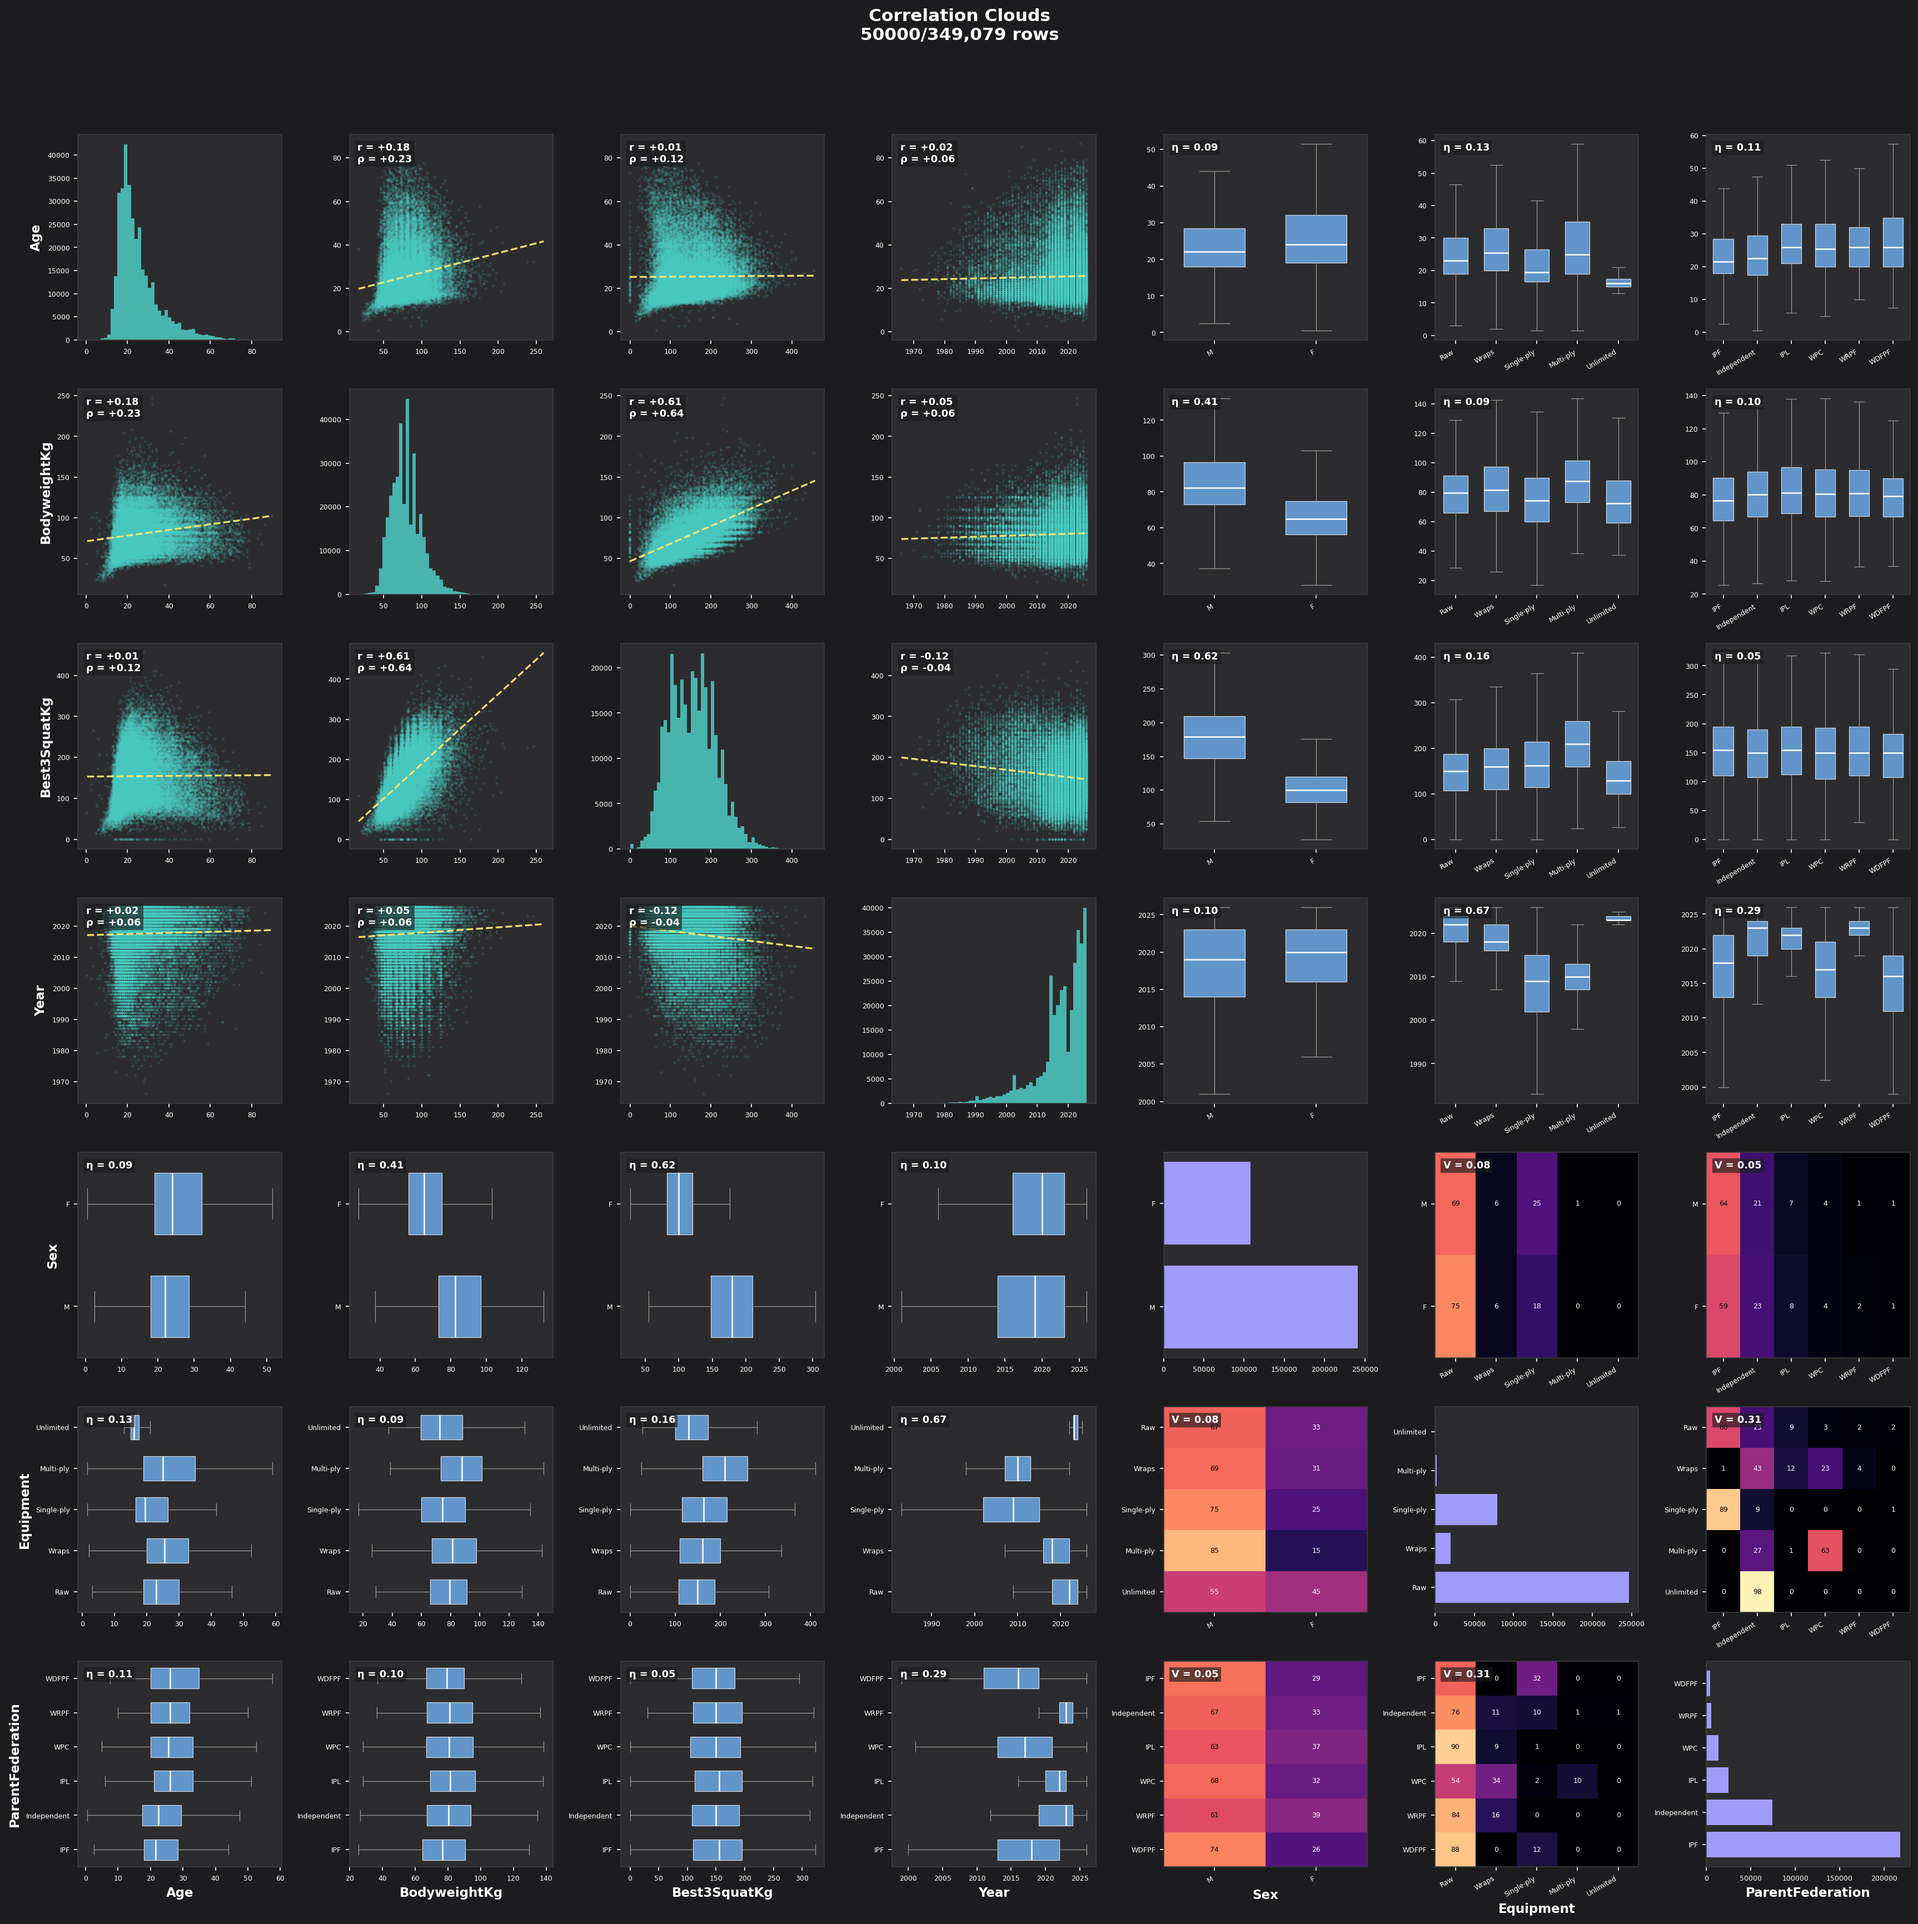
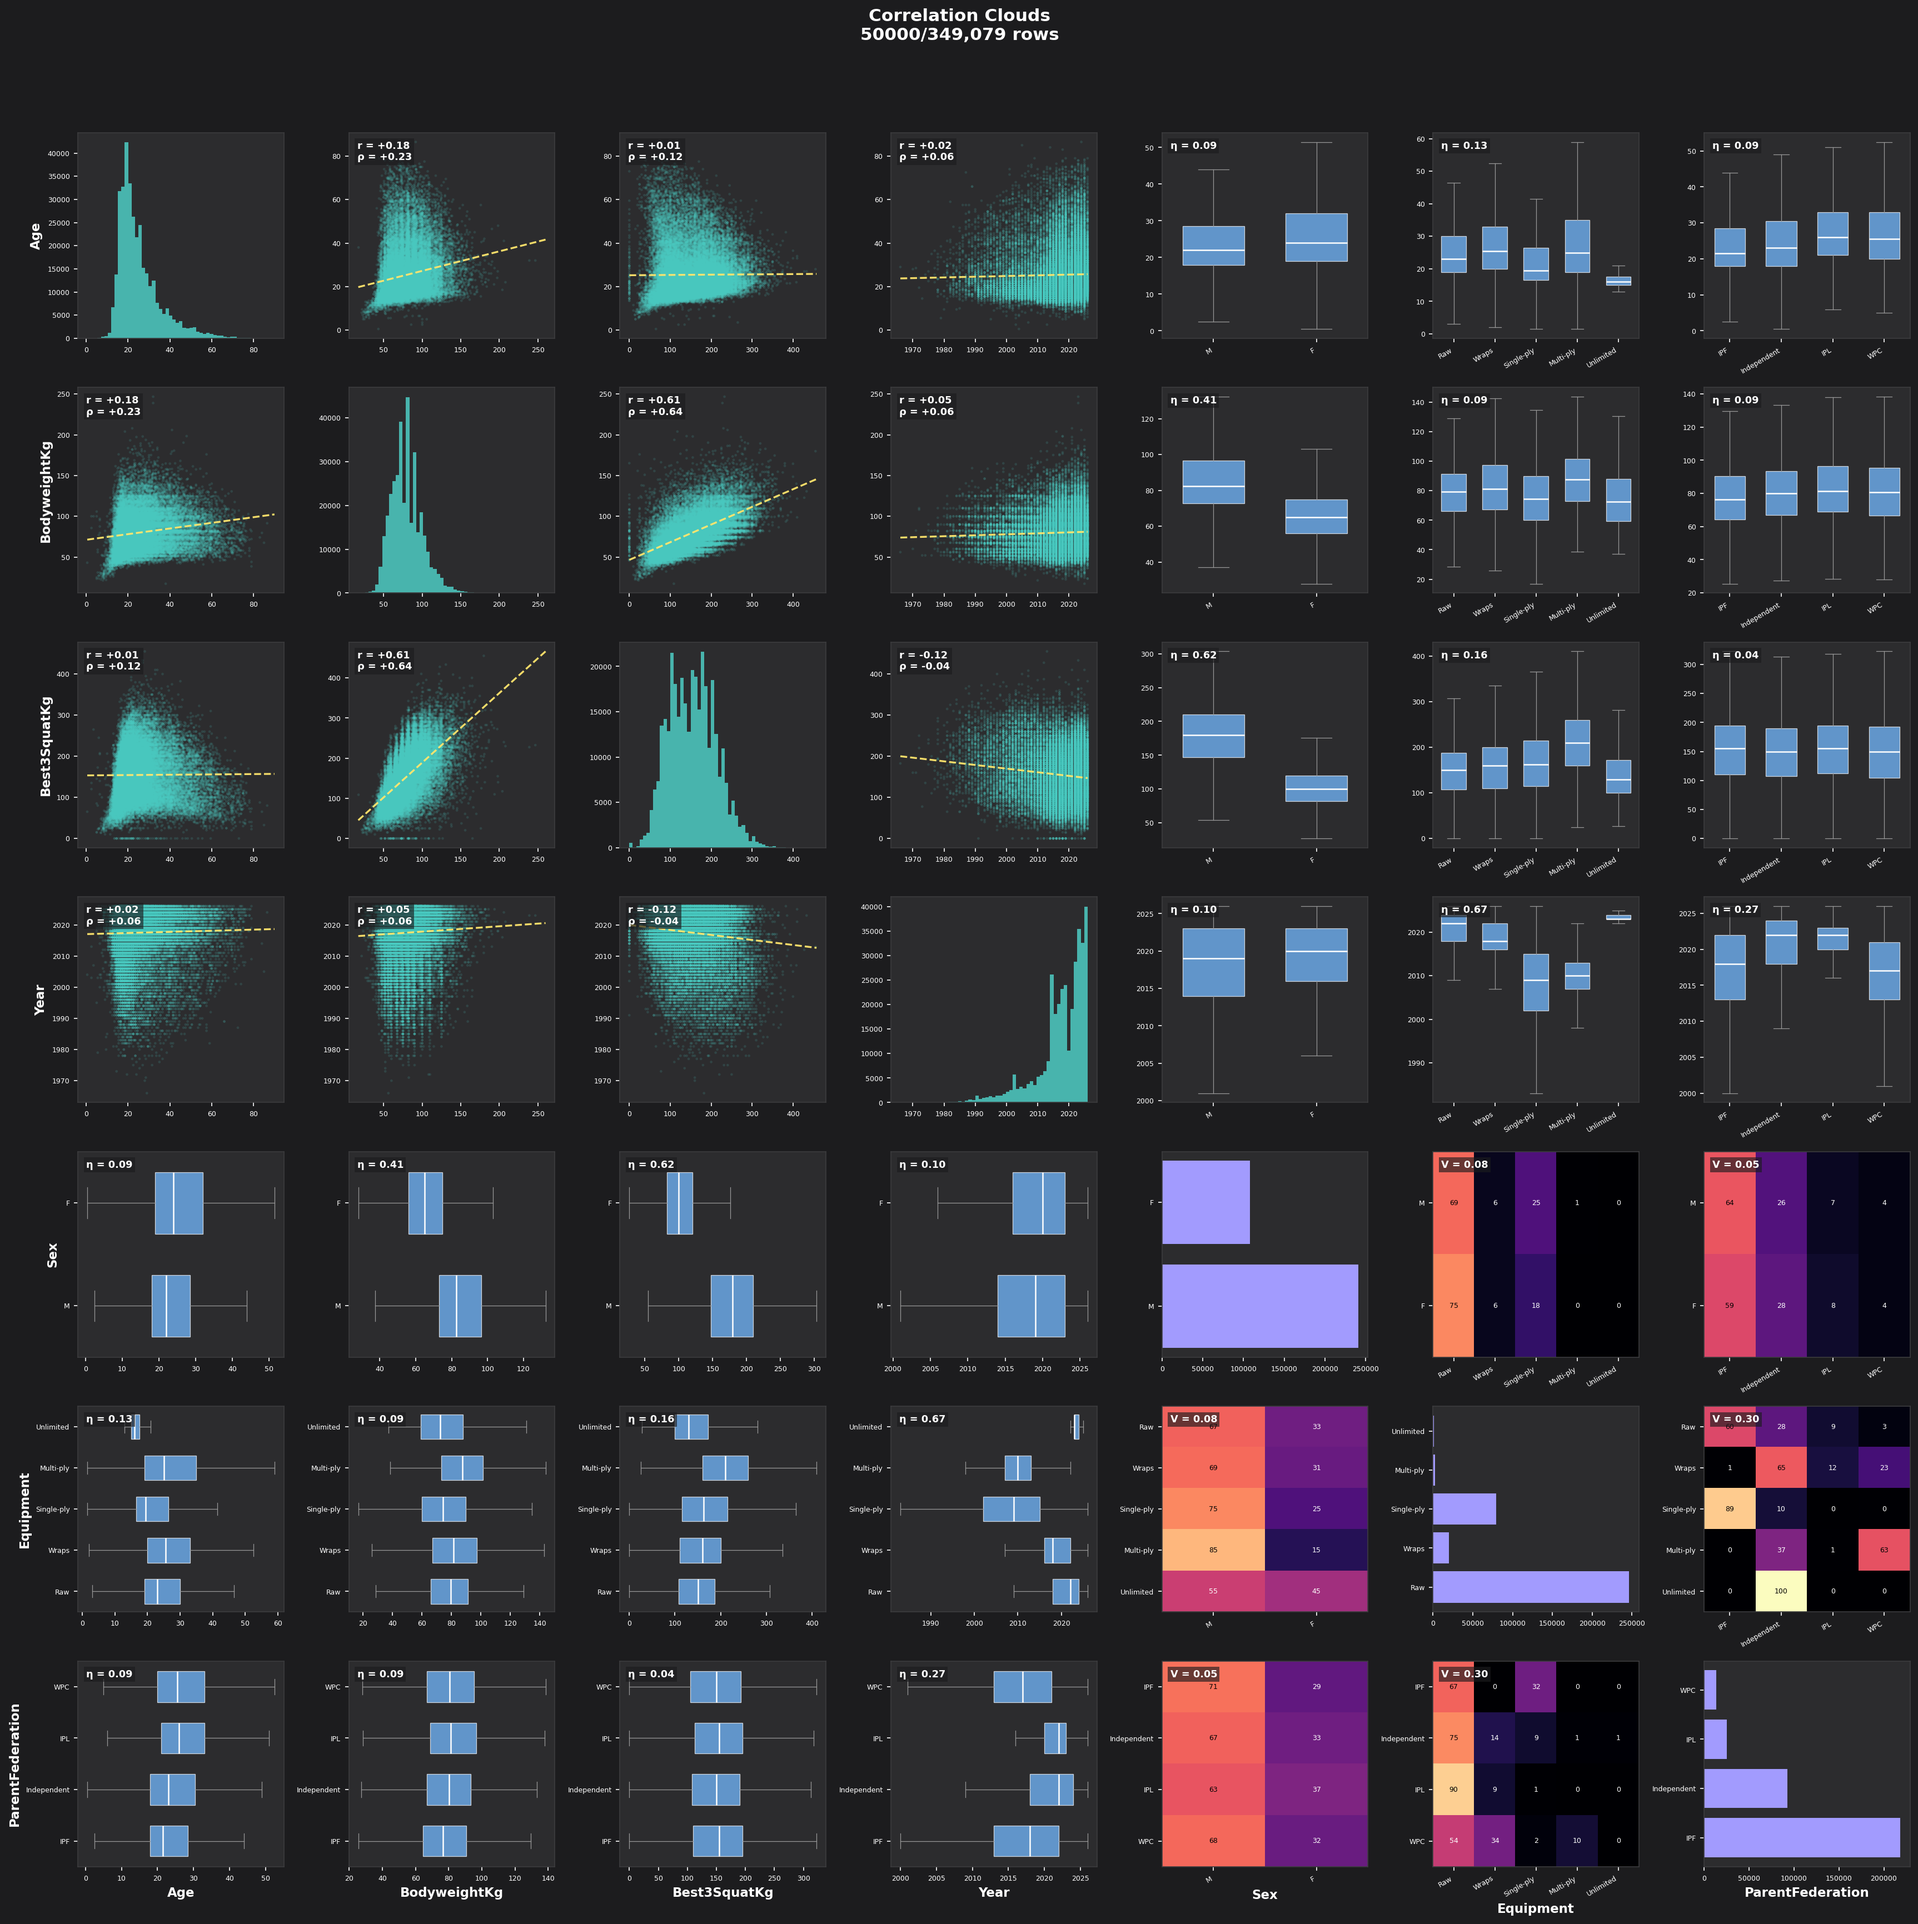
Folds rare parent federations into "Independent" and updates proposal.md to reflect this

diff --git a/data_preprocessing/preprocess_data.py b/data_preprocessing/preprocess_data.py
@@ -17,6 +17,10 @@ FILTERS = {
 # if there is no federation entry, make it "Independent"
 PARENT_FED_FALLBACK = "Independent"
 
+# also fold rare parent federations (< this share of all entries) into
+# "Independent", so that tiny ausprägungen won't unstablilize causal discovery
+PARENT_FED_MIN_SHARE = 0.03
+
 # keep only these sexes (drop the ~37 "Mx" entries)
 SEX_KEEP = ("M", "F")
 
@@ -108,6 +112,16 @@ def main() -> None:
     # drop all na
     df = df.dropna(axis=0, how="any")
     log_step("complete cases (dropna)", df)
+
+    counts = df["ParentFederation"].value_counts()
+    threshold = PARENT_FED_MIN_SHARE * len(df)
+    rare = counts[counts < threshold].index.tolist()
+    df.loc[df["ParentFederation"].isin(rare), "ParentFederation"] = PARENT_FED_FALLBACK
+    log_step(
+        f"parentfed <{PARENT_FED_MIN_SHARE:.0%} -> {PARENT_FED_FALLBACK} "
+        f"({len(rare)} levels folded)",
+        df,
+    )
 
     # Year is integer-valued after dropping missing dates.
     df["Year"] = df["Year"].astype(int)

diff --git a/proposal.md b/proposal.md
@@ -22,7 +22,7 @@ In each discipline, lifters commonly get three lift attempts of which only the o
 Preprocessing
 Prior to experimentation, we will filter the existing data to remove metrics we do not need for our research. For example, the columns we will drop include “AgeClass” (we already have “Age”), the three individual attempts per discipline (we only care about the best attempt), all attempts of “Bench” and “Deadlift” (we only care about “Squat”), etc.
 
-We will restrict the population to reduce variance in observed variables by filtering the data via constraining certain variables to a specific value that presumably avoid the influence of unobserved latent variables on our observed ones, aiming to increase the explanatory power in our experiments. Specifically, we aim to only include entries of the SBD event in which the contestant agreed to being drug-tested (which does not mean they actually got tested) and the meet was officially sanctioned. Regarding the "Federation" column, we will take "ParentFederation" as a coarser value instead of "Federation", since "ParentFederation" spans fewer different values, making conditional independence testing more reliable. Within "ParentFederation", we will replace all missing values with "Independent". We will also constraint "Sex" to be one of "Male" or "Female", given the very limited count of "Mixed".
+We will restrict the population to reduce variance in observed variables by filtering the data via constraining certain variables to a specific value that presumably avoid the influence of unobserved latent variables on our observed ones, aiming to increase the explanatory power in our experiments. Specifically, we aim to only include entries of the SBD event in which the contestant agreed to being drug-tested (which does not mean they actually got tested) and the meet was officially sanctioned. Regarding the "Federation" column, we will take "ParentFederation" as a coarser value instead of "Federation", since "ParentFederation" spans fewer different values, making conditional independence testing more reliable. Within "ParentFederation", we will replace all missing values and all values that account for less than 10% of the entries with "Independent". We will also constraint "Sex" to be one of "Male" or "Female", given the very limited count of "Mixed".
 
 Additionally, we will filter the data to only allow for one entry per contestant. This way, we make sure that there can be no within-contestant dependence, and observation can arguably be assumed to be independent and identically distributed.
 
